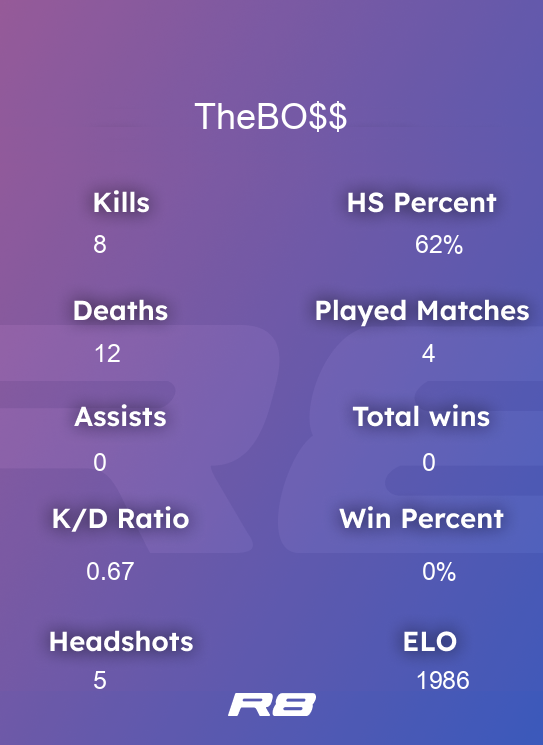
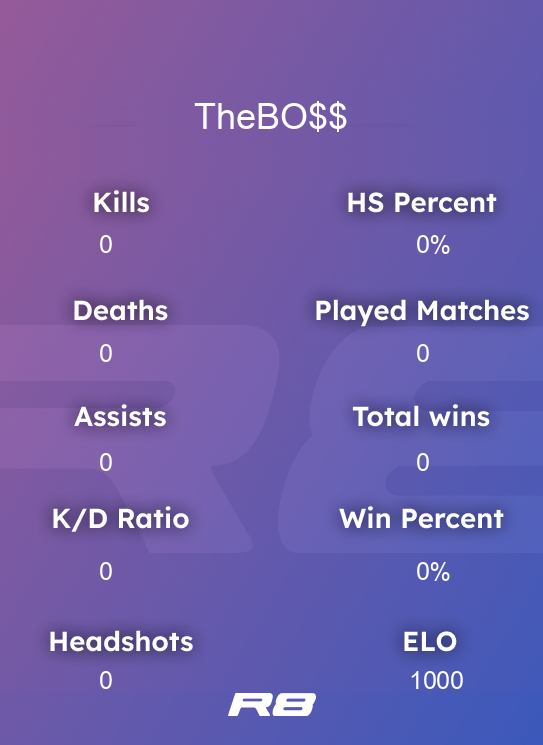
update

diff --git a/bot/cogs/link.py b/bot/cogs/link.py
@@ -7,25 +7,30 @@ from discord import app_commands, Embed, Interaction
 from bot.helpers.db import db
 from bot.helpers.errors import CustomError
 from bot.helpers.utils import validate_steam
+from bot.bot import G5Bot
 
 
 class LinkCog(commands.Cog, name='Link'):
-    def __init__(self, bot):
+    def __init__(self, bot: G5Bot):
         self.bot = bot
 
-    @app_commands.command(name='link', description='Link users to their Steam.')
-    @app_commands.describe(
-        steam='Steam ID or Steam profle link'
-    )
-    async def link(self, interaction: Interaction, steam: str):
+    @app_commands.command(name='link-steam', description='Link your Discord account to Steam.')
+    @app_commands.describe(steam='Steam ID or Steam profle link')
+    async def link_steam(self, interaction: Interaction, steam: str):
         await interaction.response.defer(ephemeral=True)
         user = interaction.user
-        user_model = await db.get_user_by_discord_id(user.id, self.bot)
-        if user_model:
-            raise CustomError(
-                f"Your account is already linked to Steam")
-
         steam_id = validate_steam(steam)
+        user_model = await db.get_user_by_discord_id(user.id, self.bot)
+
+        if user_model:
+            all_commands = await self.bot.tree.fetch_commands()
+            change_command = None
+            for c in all_commands:
+                if c.name == "change-steam":
+                    change_command = c
+            raise CustomError(
+                f"**You are already linked to [Steam](https://steamcommunity.com/profiles/{user_model.steam}/)**\n" \
+                f"Use {change_command.mention} if you want to link to different Steam.")
 
         try:
             await db.insert_user({
@@ -35,52 +40,61 @@ class LinkCog(commands.Cog, name='Link'):
         except UniqueViolationError:
             raise CustomError(
                 f"This Steam is linked to another user. Please try different Steam ID.")
-        except Exception:
+        except Exception as e:
+            self.bot.logger.error(e, exc_info=1)
             raise CustomError("Something went wrong! Please try again later.")
 
         guild_model = await db.get_guild_by_id(interaction.guild_id, self.bot)
         await user.add_roles(guild_model.linked_role)
 
         embed = Embed(
-            description=f"You have successfully linked your account to [Steam](https://steamcommunity.com/profiles/{steam_id}/)")
+            description=f"You have successfully linked to [Steam](https://steamcommunity.com/profiles/{steam_id}/)")
         await interaction.followup.send(embed=embed, ephemeral=True)
 
-    @app_commands.command(name="unlink", description="Unlink users from their Steam")
-    async def unlink(self, interaction: Interaction):
+    @app_commands.command(name="change-steam", description="Change your linked Steam")
+    @app_commands.describe(steam='Steam ID or Steam profle link')
+    async def change_steam(self, interaction: Interaction, steam: str):
         """"""
         await interaction.response.defer(ephemeral=True)
         user = interaction.user
-
+        steam_id = validate_steam(steam)
         user_model = await db.get_user_by_discord_id(user.id, self.bot)
-        if not user_model:
-            raise CustomError("Your account is not linked to Steam.")
 
-        user_lobby = await db.get_user_lobby(user.id, interaction.guild)
-        if user_lobby:
-            raise CustomError(
-                f"You can't unlink your account while you are in Lobby #{user_lobby.id}.")
+        if not user_model:
+            all_commands = await self.bot.tree.fetch_commands()
+            link_command = None
+            for c in all_commands:
+                if c.name == "link-steam":
+                    link_command = c
+            raise CustomError("Your account is not linked to Steam.\n" \
+                              f"Please use {link_command.mention} to link your account.")
 
         user_match = await db.get_user_match(user.id, interaction.guild)
         if user_match:
             raise CustomError(
-                f"You can't unlink your account while you are in match #{user_match.id}")
+                f"You can't change your steam while you are in match #{user_match.id}")
         
         spectators = await db.get_spectators(interaction.guild)
         for spec in spectators:
             if spec.user == user:
                 raise CustomError(
-                    "You can't unlink your account while you are in spectators list.")
+                    "You can't change your steam while you are in spectators list.")
+            
 
         try:
-            await db.delete_user(user.id)
+            await db.update_user(user.id, {'steam_id': f"'{steam_id}'"})
+        except UniqueViolationError:
+            raise CustomError(
+                f"This Steam is linked to another user. Please try different Steam ID.")
         except Exception as e:
+            self.bot.logger.error(e, exc_info=1)
             raise CustomError("Something went wrong! Please try again later.")
 
         guild_model = await db.get_guild_by_id(interaction.guild_id, self.bot)
-        await user.remove_roles(guild_model.linked_role)
+        await user.add_roles(guild_model.linked_role)
 
         embed = Embed(
-            description="You have successfully unlinked your account.")
+            description=f"You have successfully updated your [Steam](https://steamcommunity.com/profiles/{steam_id}/)")
         await interaction.followup.send(embed=embed, ephemeral=True)
 
 

diff --git a/bot/helpers/utils.py b/bot/helpers/utils.py
@@ -108,16 +108,16 @@ def generate_statistics_img(stats):
         name_width = name_box[2] - name_box[0]
 
         draw.text(((width - name_width) // 2, 90), name, font=fontbig)
-        draw.text((51, 226+109*0), align_text(str(stats.kills), 14), font=font)
-        draw.text((51, 226+109*1), align_text(str(stats.deaths), 14), font=font)
-        draw.text((51, 226+109*2), align_text(str(stats.assists), 14), font=font)
-        draw.text((51, 226+109*3), align_text(str(stats.kdr), 14), font=font)
-        draw.text((51, 226+109*4), align_text(str(stats.headshots), 14), font=font)
-        draw.text((359, 226+109*0), align_text(str(stats.hsp), 20), font=font)
-        draw.text((359, 226+109*1), align_text(str(stats.played_matches), 20), font=font)
-        draw.text((359, 226+109*2), align_text(str(stats.wins), 20), font=font)
-        draw.text((359, 226+109*3), align_text(str(stats.win_percent), 20), font=font)
-        draw.text((359, 226+109*4), align_text(str(stats.elo), 20), font=font)
+        draw.text((57, 226+109*0), align_text(str(stats.kills), 14), font=font)
+        draw.text((57, 226+109*1), align_text(str(stats.deaths), 14), font=font)
+        draw.text((57, 226+109*2), align_text(str(stats.assists), 14), font=font)
+        draw.text((57, 226+109*3), align_text(str(stats.kdr), 14), font=font)
+        draw.text((57, 226+109*4), align_text(str(stats.headshots), 14), font=font)
+        draw.text((353, 226+109*0), align_text(str(stats.hsp), 20), font=font)
+        draw.text((353, 226+109*1), align_text(str(stats.played_matches), 20), font=font)
+        draw.text((353, 226+109*2), align_text(str(stats.wins), 20), font=font)
+        draw.text((353, 226+109*3), align_text(str(stats.win_percent), 20), font=font)
+        draw.text((353, 226+109*4), align_text(str(stats.elo), 20), font=font)
 
         img.save(SAVE_IMG_DIR + '/statistics.png')
 
@@ -130,14 +130,7 @@ def generate_leaderboard_img(players_stats):
 
     with Image.open(TEMPLATES_DIR + "/leaderboard.png") as img:
         font = ImageFont.truetype(FONTS_DIR + "/ARIALUNI.TTF", 25)
-        fontbig = ImageFont.truetype(FONTS_DIR + "/ARIALUNI.TTF", 36)
         draw = ImageDraw.Draw(img)
-
-        title = 'Leaderboard'
-        title_box = draw.textbbox((0, 0), title, font=fontbig)
-        title_width = title_box[2] - title_box[0]
-
-        draw.text(((width - title_width) // 2, 60), title, font=fontbig)
 
         for idx, p in enumerate(players_stats):
             draw.text((73, 235+65*idx), str(p.member.display_name)[:14], font=font)
@@ -150,3 +143,45 @@ def generate_leaderboard_img(players_stats):
         img.save(SAVE_IMG_DIR + '/leaderboard.png')
 
     return File(SAVE_IMG_DIR + '/leaderboard.png')
+
+
+def generate_scoreboard_img(match_stats, team1_stats, team2_stats):
+    """"""
+    width, height = 992, 1065
+
+    with Image.open(TEMPLATES_DIR + "/scoreboard.png") as img:
+        font = ImageFont.truetype(FONTS_DIR + "/ARIALUNI.TTF", 25)
+        fontbig = ImageFont.truetype(FONTS_DIR + "/ARIALUNI.TTF", 32)
+        draw = ImageDraw.Draw(img)
+
+        title = f'{match_stats.team1_name[:20]}  [ {match_stats.team1_score} : {match_stats.team2_score} ]  {match_stats.team2_name[:20]}'
+        title_box = draw.textbbox((0, 0), title, font=fontbig)
+        title_width = title_box[2] - title_box[0]
+        draw.text(((width - title_width) // 2, 40), title, font=fontbig)
+
+        map_name = f"Map: {match_stats.map}"
+        map_box = draw.textbbox((0, 0), map_name, font=fontbig)
+        map_width = map_box[2] - map_box[0]
+        draw.text(((width - map_width) // 2, 85), map_name, font=fontbig)
+
+        draw.text((200, 172), match_stats.team1_name[:20], font=fontbig)
+        for idx, p in enumerate(team1_stats):
+            draw.text((58, 290+50*idx), str(p.member.display_name)[:14], font=font)
+            draw.text((340, 290+50*idx), str(p.kills), font=font)
+            draw.text((490, 290+50*idx), str(p.assists), font=font)
+            draw.text((640, 290+50*idx), str(p.deaths), font=font)
+            draw.text((790, 290+50*idx), str(p.mvps), font=font)
+            draw.text((900, 290+50*idx), str(p.score), font=font)
+    
+        draw.text((200, 643), match_stats.team2_name[:20], font=fontbig)
+        for idx, p in enumerate(team2_stats):
+            draw.text((58, 755+50*idx), str(p.member.display_name)[:14], font=font)
+            draw.text((340, 755+50*idx), str(p.kills), font=font)
+            draw.text((490, 755+50*idx), str(p.assists), font=font)
+            draw.text((640, 755+50*idx), str(p.deaths), font=font)
+            draw.text((790, 755+50*idx), str(p.mvps), font=font)
+            draw.text((900, 755+50*idx), str(p.score), font=font)
+
+        img.save(SAVE_IMG_DIR + '/scoreboard.png')
+
+    return File(SAVE_IMG_DIR + '/scoreboard.png')

diff --git a/bot/cogs/match.py b/bot/cogs/match.py
@@ -9,6 +9,7 @@ import asyncio
 
 from bot.helpers.api import api, Match
 from bot.helpers.db import db
+from bot.helpers.utils import generate_scoreboard_img
 from bot.helpers.models import GuildModel, MatchModel
 from bot.bot import G5Bot
 from bot.helpers.errors import APIError, CustomError
@@ -285,19 +286,36 @@ class MatchCog(commands.Cog, name="Match"):
 
     async def finalize_match(self, match_model: MatchModel, guild_model: GuildModel, match_cancelled=False):
         """"""
-        match_players = await db.get_match_users(match_model.id, match_model.guild)
         if not match_cancelled:
             try:
                 match_stats = await api.get_match(match_model.id)
+                try:
+                    team1_stats = match_stats.team1_players
+                    team2_stats = match_stats.team2_players
+                    for p in team1_stats:
+                        user_model = await db.get_user_by_steam_id(p.steam_id, self.bot)
+                        p.member = user_model.member
+                    for p in team2_stats:
+                        user_model = await db.get_user_by_steam_id(p.steam_id, self.bot)
+                        p.member = user_model.member
+                    team1_stats.sort(key=lambda x: x.score, reverse=True)
+                    team2_stats.sort(key=lambda x: x.score, reverse=True)
+                    file = generate_scoreboard_img(match_stats, team1_stats[:6], team2_stats[:6])
+                    await guild_model.results_channel.send(file=file)
+                except Exception as e:
+                    self.bot.logger.error(e, exc_info=1)
+
                 for player_stat in match_stats.team1_players + match_stats.team2_players:
                     try:
                         user_model = await db.get_user_by_steam_id(player_stat.steam_id, self.bot)
                         await db.update_user_stats(user_model.member.id, player_stat)
                     except Exception as e:
                         self.bot.logger.error(e, exc_info=1)
+
             except Exception as e:
                 self.bot.logger.error(e, exc_info=1)
 
+        match_players = await db.get_match_users(match_model.id, match_model.guild)
         move_aws = [user.move_to(guild_model.waiting_channel) for user in match_players]
         await asyncio.gather(*move_aws, return_exceptions=True)
         
@@ -351,15 +369,6 @@ class MatchCog(commands.Cog, name="Match"):
 
         try:
             await message.delete()
-        except Exception as e:
-            pass
-
-        try:
-            embed = self.embed_match_info(api_match)
-            team1_users = await db.get_match_users(api_match.id, match_model.guild, team='team1')
-            team2_users = await db.get_match_users(api_match.id, match_model.guild, team='team2')
-            self.add_teams_fields(embed, api_match, team1_users, team2_users)
-            await guild_model.results_channel.send(embed=embed)
         except Exception as e:
             pass
 

diff --git a/bot/cogs/stats.py b/bot/cogs/stats.py
@@ -3,9 +3,10 @@
 from typing import Optional
 
 from discord.ext import commands, tasks
-from discord import app_commands, Interaction, Member
+from discord import app_commands, Interaction, Member, Embed
 from bot.helpers.db import db
 from bot.helpers.errors import CustomError
+from bot.views import ConfirmView
 from bot.helpers.utils import generate_statistics_img, generate_leaderboard_img
 
 
@@ -13,18 +14,18 @@ class StatsCog(commands.Cog, name='Stats'):
     def __init__(self, bot):
         self.bot = bot
 
-    @app_commands.command(name="stats", description="Show your stats")
+    @app_commands.command(name="view-stats", description="View your stats or target's stats")
     @app_commands.describe(
-        target='User to show their stats, leave this blank to show your stats instead.'
+        target='User to view their stats, leave this blank to view your stats instead.'
     )
-    async def stats(self, interaction: Interaction, target: Optional[Member]):
+    async def view_stats(self, interaction: Interaction, target: Optional[Member]):
         await interaction.response.defer(ephemeral=True)
         user = target or interaction.user
         user_model = await db.get_user_by_discord_id(user.id, self.bot)
 
         if not user_model:
             raise CustomError(
-                f"No stats were recorded for {user.mention}")
+                f"You must be linked to use this command.")
         
         try:
             file = generate_statistics_img(user_model)
@@ -32,6 +33,32 @@ class StatsCog(commands.Cog, name='Stats'):
         except Exception as e:
             self.bot.logger.error(e, exc_info=1)
 
+    @app_commands.command(name="reset-stats", description="Reset your stats")
+    async def reset_stats(self, interaction: Interaction):
+        await interaction.response.defer(ephemeral=True)
+        user = interaction.user
+        user_model = await db.get_user_by_discord_id(user.id, self.bot)
+
+        if not user_model:
+            raise CustomError(
+                f"You must be linked to use this command.")
+        
+        embed = Embed(description=f"Are you sure you want to reset your stats?")
+        confirm = ConfirmView(interaction.user)
+        await interaction.edit_original_response(embed=embed, view=confirm)
+        await confirm.wait()
+
+        if not confirm.accepted:
+            raise CustomError("Reset stats rejected")
+        
+        try:
+            await db.reset_user_stats(user.id)
+            embed.description = "Your stats reset successfully."
+        except Exception as e:
+            embed.description = "Something went wront, please try again later."
+            self.bot.logger.error(e, exc_info=1)
+        
+        await interaction.edit_original_response(embed=embed, view=None)
 
     @tasks.loop(minutes=10.0)
     async def update_leaderboard(self):

diff --git a/bot/helpers/db.py b/bot/helpers/db.py
@@ -363,6 +363,28 @@ class DBManager:
         sql = "SELECT id FROM matches WHERE game_server_id = $1;"
         return await self.query(sql, game_server_id)
     
+    async def reset_user_stats(self, user_id: int):
+        """"""
+        dict_stats = {
+            'kills' : 0,
+            'deaths' : 0,
+            'assists' : 0,
+            'headshots' : 0,
+            'k2' : 0,
+            'k3' : 0,
+            'k4' : 0,
+            'k5' : 0,
+            'played_matches' : 0,
+            'wins' : 0,
+            'elo' : 1000,
+        }
+
+        col_vals = ",\n    ".join(
+            f"{key} = {val}" for key, val in dict_stats.items())
+
+        sql = f'UPDATE users SET {col_vals} WHERE id = $1;'
+        await self.query(sql, user_id)
+    
     async def update_user_stats(self, user_id: int, stats: MatchPlayer):
         """"""
         sql = "SELECT * FROM users WHERE id = $1;"

diff --git a/bot/helpers/api.py b/bot/helpers/api.py
@@ -27,6 +27,7 @@ class MatchPlayer:
         self.k5 = data['stats']['5ks']
         self.score = data['stats']['score']
         self.winner = winner
+        self.member = None
 
     @classmethod
     def from_dict(cls, data: dict, winner) -> "MatchPlayer":
